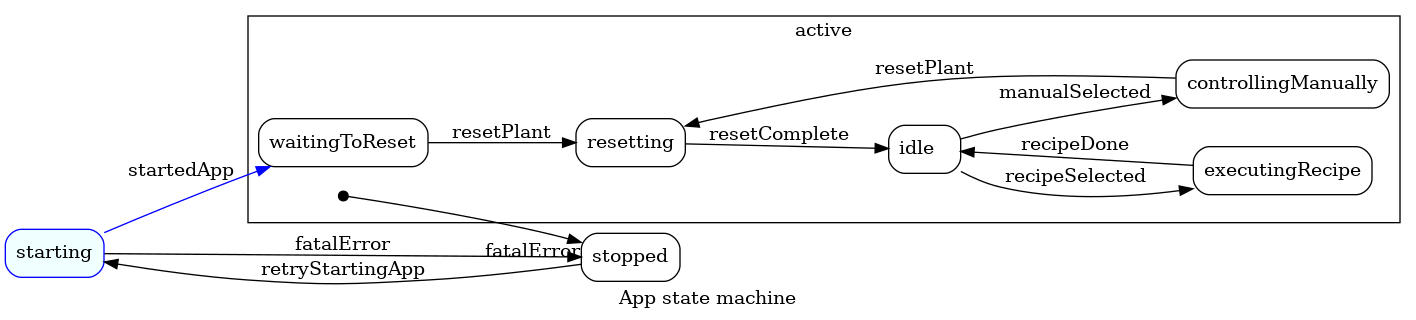
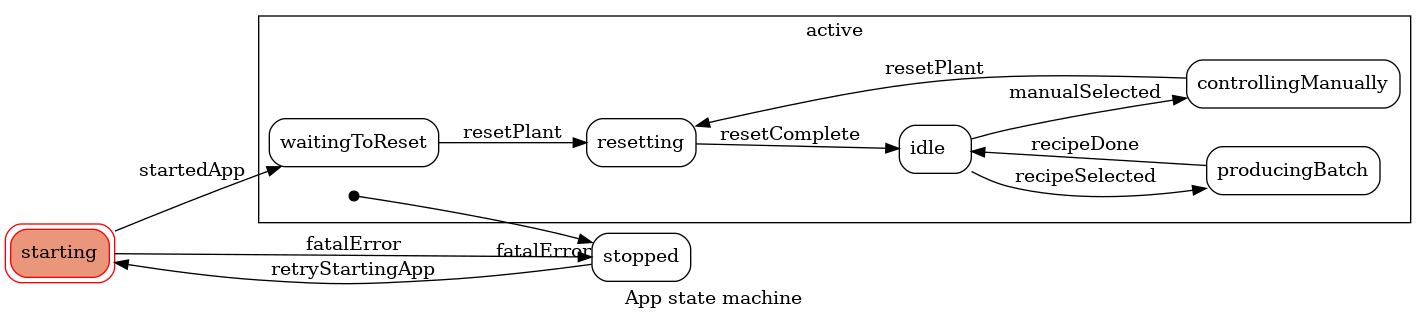
Added basic event handler.

diff --git a/python-scripts/recipes/appstatemachine.py b/python-scripts/recipes/appstatemachine.py
@@ -11,16 +11,30 @@ class States(enum.Enum):
     resetting = 4
     idle = 5
     controllingManually = 6
-    executingRecipe = 7
+    producingBatch = 7
 
+APP_SM_GRAPH_FILENAME = "App state machine.png"
 
-class AppStateMachine:
+class AppSM:
     """Highest level state machine, for controlling start, stop, modes, etc. of the recipe management application.
+
+    See diagram in "App state machine.png".
+
+    Attributes:
+        machine (HierarchicalAsyncGraphMachine): State machine. Call these functions to transition:
+            startedApp()
+            fatalError()
+            retryStartingApp()
+            resetPlant()
+            resetComplete()
+            recipeSelected()
+            manualSelected()
+            recipeDone()
     """
 
-    def __init__(self):
+    def __init__(self, makeGraph = False):
         # Executing a recipe (TEMP - replace with lower level HSM for recipe execution)
-        executingRecipeState = States.executingRecipe
+        producingBatchState = States.producingBatch
 
         activeState = {
             "name": States.active,
@@ -29,7 +43,7 @@ class AppStateMachine:
                 States.resetting,  # Resetting plant to initial state
                 States.idle,  # Awaiting orders from HMI
                 States.controllingManually,  # Manual control of plant by calling services
-                executingRecipeState  # Running a recipe
+                producingBatchState  # Running a recipe
             ]
         }
         self._states = [
@@ -38,8 +52,15 @@ class AppStateMachine:
             States.stopped  # Due to some fatal error, such as lost connection to plant
         ]
 
+        if(makeGraph):
+            graphEngine = "graphviz"
+        else:
+            graphEngine = "mermaid"
+
         self.machine = HierarchicalAsyncGraphMachine(
-            states=self._states, initial=States.starting, graph_engine="graphviz")
+            states=self._states,
+            initial=States.starting,
+            graph_engine=graphEngine)
 
         # Transitions
         # Once initial steps are done, go to active - enter at waiting to reset
@@ -65,7 +86,7 @@ class AppStateMachine:
         )
         # Recipe has been selected and parametrised
         self.machine.add_transition(
-            "recipeSelected", States.idle, States.executingRecipe
+            "recipeSelected", States.idle, States.producingBatch
         )
         # Manual control has been selected
         self.machine.add_transition(
@@ -73,18 +94,9 @@ class AppStateMachine:
         )
         # TEMP - CHANGE LATER
         self.machine.add_transition(
-            "recipeDone", States.executingRecipe, States.idle
+            "recipeDone", States.producingBatch, States.idle
         )
 
-
-async def main():
-    sm = AppStateMachine()
-    print(sm.machine.state)
-    await sm.machine.startedApp()
-    print(sm.machine.state)
-
-    graph = sm.machine.get_combined_graph(title = "App state machine")
-    graph.draw(filename = "App state machine.png", format="png")
-
-
-asyncio.run(main())
+        if(makeGraph):
+            graph = self.machine.get_combined_graph(title = "App state machine")
+            graph.draw(filename = APP_SM_GRAPH_FILENAME, format="png")

diff --git a/python-scripts/recipes/jsonsocketserver.py b/python-scripts/recipes/jsonsocketserver.py
@@ -43,12 +43,12 @@ class JsonSocketServer:
 
         self.sendQueue = asyncio.Queue()
 
-    async def _onConnection(self, reader: asyncio.StreamReader, writer: asyncio.StreamReader):
+    async def _onConnection(self, reader: asyncio.StreamReader, writer: asyncio.StreamWriter):
         """Launches loops to read and write messages to connected client.
 
         Args:
             reader (asyncio.StreamReader): Stream reader created by asyncio.start_server().
-            writer (asyncio.StreamReader): Stream writer created by asyncio.start_server().
+            writer (asyncio.StreamWriter): Stream writer created by asyncio.start_server().
         """
         self._reader = reader
         self._writer = writer
@@ -62,16 +62,23 @@ class JsonSocketServer:
         is an error when deserializing and decoding the dictionary.
         """
         while True:
-            received = await self._reader.readuntil(self._EOM.encode(self._encoding))
-            loop = asyncio.get_running_loop()
-            try:
-                message = json.loads(received.decode(
-                    self._encoding).removesuffix(self._EOM))
-            except:
-                message = {"error": "socketServerDecoding"}
-            finally:
-                # Send message to external handler
-                loop.create_task(self._fnHandleMessage(message))
+            # Check if connection ended
+            if (self._reader.at_eof()):
+                loop.create_task(self._fnHandleMessage(
+                    {"error": "socketClientDisconnected"}))
+                await self._writer.write_eof()
+            else:
+                # Wait for message that ends with EOM
+                received = await self._reader.readuntil(self._EOM.encode(self._encoding))
+                loop = asyncio.get_running_loop()
+                try:
+                    message = json.loads(received.decode(
+                        self._encoding).removesuffix(self._EOM))
+                except:
+                    message = {"error": "socketServerDecoding"}
+                finally:
+                    # Send message to external handler
+                    loop.create_task(self._fnHandleMessage(message))
 
     async def _writeLoop(self):
         """Encodes and sends messages stored in the queue.
@@ -89,5 +96,5 @@ class JsonSocketServer:
                 loop.create_task(self._fnHandleMessage(
                     {"error": "socketServerEncoding"}))
             else:
-                self._writer.write()
+                self._writer.write(messageEncoded)
                 await self._writer.drain()

diff --git a/python-scripts/recipes/eventhandler.py b/python-scripts/recipes/eventhandler.py
@@ -1,0 +1,56 @@
+import asyncio
+from appstatemachine import AppSM
+
+
+class EventHandler:
+    async def putEvent(self, event: dict[str, str]):
+        """Add event to queue
+
+        Args:
+            event (dict[str,str]): Event to add.
+                Dict with first key { type : eventCode }. Some events can optionally have more keys.
+        """
+        await self._eventQueue.put(event)
+
+    async def loop(self):
+        while True:
+            event = await self._eventQueue.get()
+
+            # Check event is a dict and isn't empty
+            if (isinstance(event, dict) and dict):
+                type = next(iter(event))
+                match type:
+                    case "error":
+                        self._processError(event)
+                    case "hmiEvent":
+                        self._processHmiEvent(event)
+                    case _:
+                        print(
+                            "Event handler got event of unknown type : " + str(type))
+            else:
+                print("Event handler got invalid object")
+
+    def __init__(self, appSM: AppSM):
+        self._eventQueue = asyncio.Queue()
+        self._appSM = AppSM
+
+    async def _processHmiEvent(self, event: dict[str, str]):
+        eventCode = event["hmiEvent"]
+        match eventCode:
+            case "resetPlant":
+                await self._appSM.machine.resetPlant()
+            case "manualSelected":
+                await self._appSM.machine.manualSelected()
+            case "recipeSelected":
+                # TODO: Load recipe
+                await self._appSM.machine.recipeSelected()
+
+    async def _processError(self, error: dict[str, str]):
+        errorCode = error["error"]
+        match errorCode:
+            case "socketServerEncoding":
+                print("Socket server encoding error")
+            case "socketServerDecoding":
+                print("Socket server decoding error")
+            case "socketClientDisconnected":
+                print("Socket client has disconnected")

diff --git a/python-scripts/recipes/recipes.py b/python-scripts/recipes/recipes.py
@@ -1,32 +1,20 @@
 import asyncio
 
 from jsonsocketserver import JsonSocketServer
+from appstatemachine import AppSM
+from eventhandler import EventHandler
 
 PORT = 10000
 
-
-async def messageHandler():
-    global server
-    global queue
-    while True:
-        message = await queue.get()
-        print(message)
-        await server.sendQueue.put({"Response": "Message received"})
-
-async def addToQueue(message):
-    global queue
-    await queue.put(message)
-
 async def main():
-    global server
-    global queue
-    queue = asyncio.Queue()
 
-    server = JsonSocketServer(fnHandleMessage = addToQueue,port=PORT)
+    sm = AppSM(makeGraph=True)
+    eventHandler = EventHandler(sm)
+
+    server = JsonSocketServer(fnHandleMessage = EventHandler.putEvent, port=PORT)
     await server.start()
     mainLoop = asyncio.get_running_loop()
-    mainLoop.create_task(messageHandler())
     
     while True:
-        await asyncio.sleep(1)
+        await eventHandler.loop()
 asyncio.run(main())
